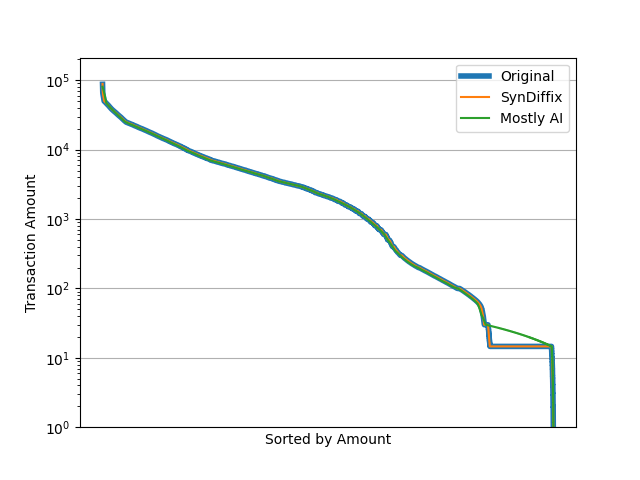
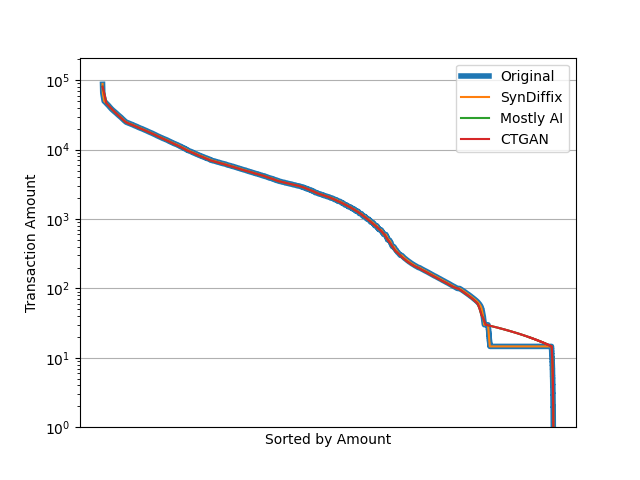
fix bug in sdvSynth.py

diff --git a/dataPrep/analysis.py b/dataPrep/analysis.py
@@ -70,24 +70,29 @@ def unify_lengths(*args):
         results.append(df.sample(n=minLen))
     return results
 
-def trans_amounts_sorted(df, df_mo, fileName):
+def trans_amounts_sorted(df, df_mo, df_ct, fileName):
     ''' Make a graph with the transaction amounts sorted high to low
     '''
     print(list(df.columns))
     print(list(df_mo.columns))
+    print(list(df_ct.columns))
     columns = ['amount']
     pids = ['account_id']
     df_syn = do_synthesize(df, columns, pids, fileName)
     print(f"df_syn has columns {list(df_syn.columns)}")
     df_mo = df_mo[columns]
+    df_ct = df_ct[columns]
     df_orig = df[columns]
-    df_orig, df_syn, df_mo = unify_lengths(df_orig, df_syn, df_mo)
+    df_orig, df_syn, df_mo, df_ct = unify_lengths(df_orig, df_syn, df_mo, df_ct)
     df_syn = df_syn.sort_values(by=columns, ascending=False)
     df_syn = df_syn.reset_index(drop=True)
     df_syn.index.name = 'index'
     df_mo = df_mo.sort_values(by=columns, ascending=False)
     df_mo = df_mo.reset_index(drop=True)
     df_mo.index.name = 'index'
+    df_ct = df_ct.sort_values(by=columns, ascending=False)
+    df_ct = df_ct.reset_index(drop=True)
+    df_ct.index.name = 'index'
     df_orig = df_orig.sort_values(by=columns, ascending=False)
     df_orig = df_orig.reset_index(drop=True)
     df_orig.index.name = 'index'
@@ -96,6 +101,7 @@ def trans_amounts_sorted(df, df_mo, fileName):
     sns.lineplot(data=df_orig, x=df_orig.index.name, y='amount', label='Original', ax=ax, linewidth=4)
     sns.lineplot(data=df_syn, x=df_syn.index.name, y='amount', label='SynDiffix', ax=ax)
     sns.lineplot(data=df_mo, x=df_mo.index.name, y='amount', label='Mostly AI', ax=ax)
+    sns.lineplot(data=df_ct, x=df_ct.index.name, y='amount', label='CTGAN', ax=ax)
     ax.set_yscale('log')
     ax.set_ylim([1,None])
     ax.grid(axis='y')
@@ -124,7 +130,9 @@ def trans_max_balance_sorted(df, df_mo, fileName):
 
 df_trans = getDf('trans_account_card_clients')
 df_trans_mo = getDf('trans_account_card_clients.mostly')
-if False:
-    trans_amounts_sorted(df_trans, df_trans_mo, 'trans_account_card_clients')
+# TODO replace with CTGAN file when I have it
+df_trans_ct = getDf('trans_account_card_clients.mostly')
 if True:
-    trans_max_balance_sorted(df_trans, df_trans_mo, 'trans_account_card_clients')
+    trans_amounts_sorted(df_trans, df_trans_mo, df_trans_ct, 'trans_account_card_clients')
+if False:
+    trans_max_balance_sorted(df_trans, df_trans_mo, df_trans_ct, 'trans_account_card_clients')

diff --git a/dataPrep/sdvSynth.py b/dataPrep/sdvSynth.py
@@ -65,9 +65,11 @@ for fileNameRoot in seqFilesToSynthesize:
     metadataDict = metadata.to_dict()
     print(f"\n{fileName}:")
     pp.pprint(metadataDict)
+    num_sequences = df['account_id'].nunique()
+    print(num_sequences)
     synthesizer = PARSynthesizer(metadata)
     synthesizer.fit(df)
-    df_syn = synthesizer.sample(num_rows=len(df))
+    df_syn = synthesizer.sample(num_sequences=num_sequences)
     saveDf(fileNameRoot+'.ctgan.seq', df_syn)
 
 for fileNameRoot in filesToSynthesize:
